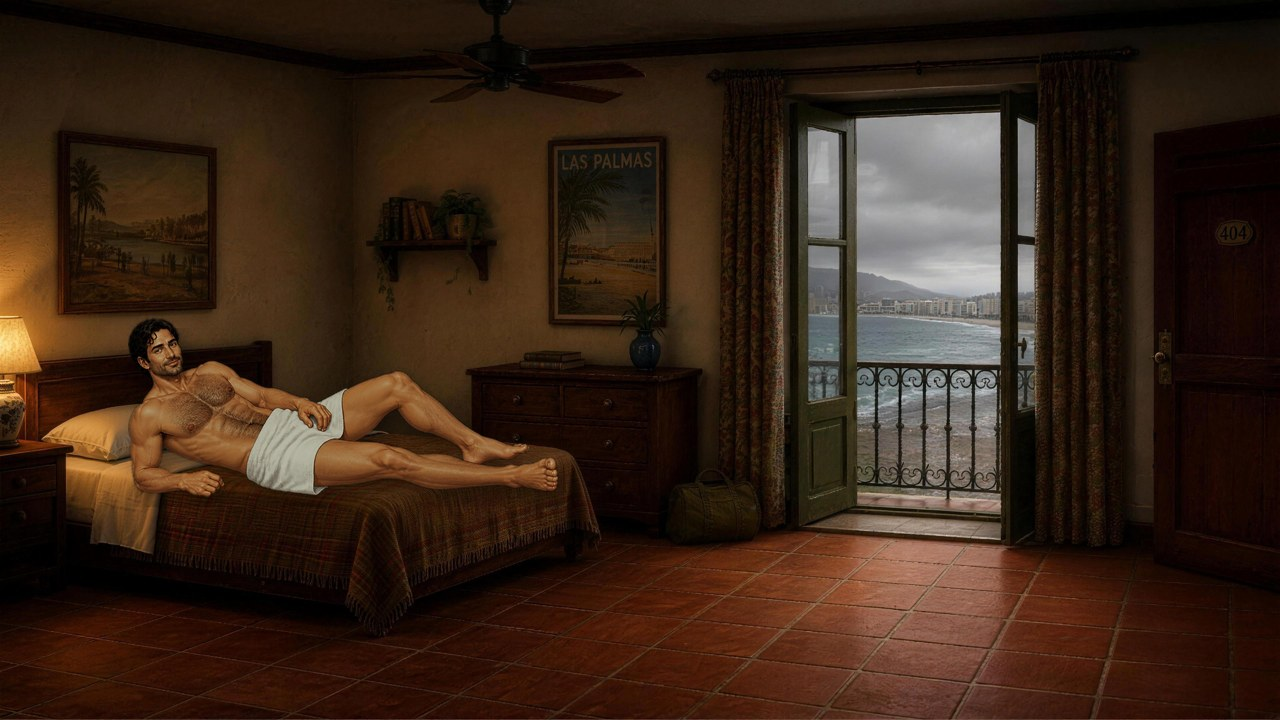
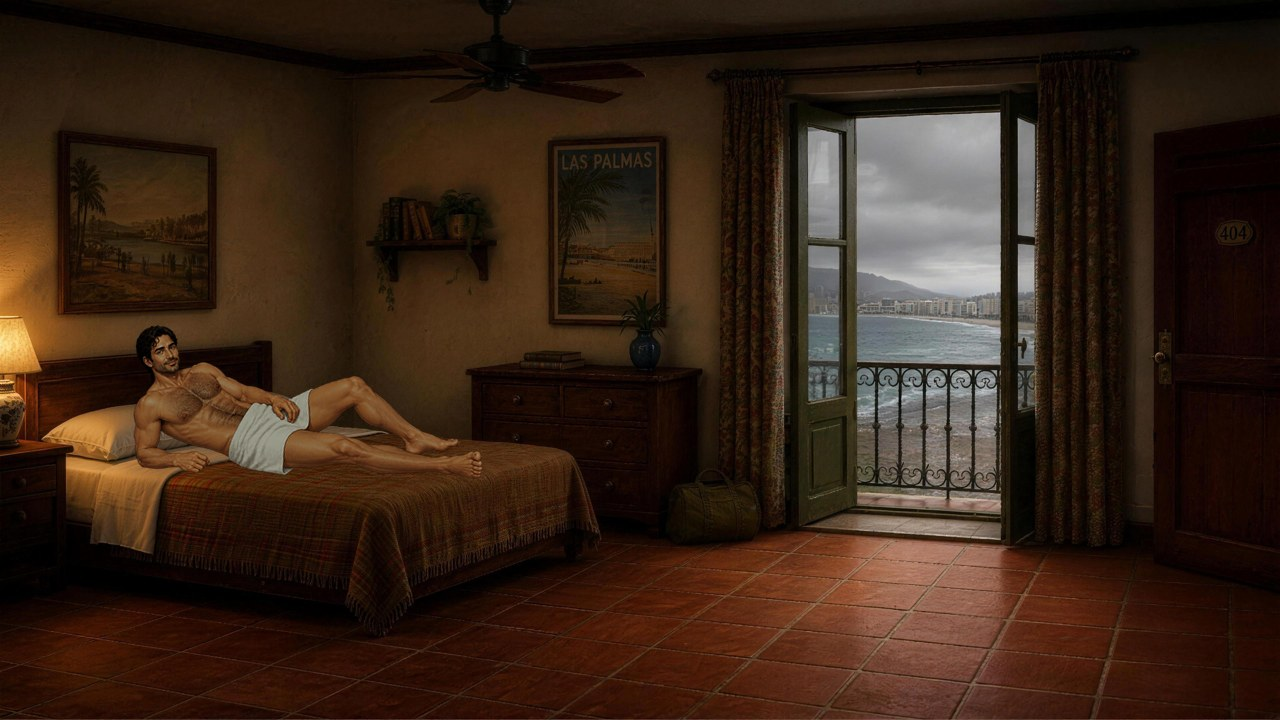
Vasco towel sprite baked at the user's placement
Claude-Session: https://claude.ai/code/session_016HTeTMdkPGeAf3vSMzZ5ZE

Changed region(s): [[0.0938, 0.4278, 0.4375, 0.7028]]

diff --git a/sequel/docs/HANDOFF.md b/sequel/docs/HANDOFF.md
@@ -1141,5 +1141,5 @@ the Sea, one glimpse only, no line gives it a voice; the Sea is never funny.
     Alan's portrait on the easel, one Elena and no discs in the chain, Alan's black tank top, shorts and white trainers,
     Alan in the Land Rover). The love scenes are to be shown another way (open). Vasco on the bed: Canva MAHZhGYusW8 from
     the in-game vascor (MAHZgxwIxeM) and the bed ref, more chest hair; exported via page 7 of DAHYZ-SDzRE, kept as
-    `art/designs/vasco_towel_bed.png`, keyed, rotated 11°, night-graded, placed at (128,318) on `hotel_room`
+    `art/designs/vasco_towel_bed.png`, keyed, rotated 11°, night-graded, placed by the user on a placement page (https://claude.ai/artifact/MF3B4betqnWGEtUw27peHw, db `placements/vasco_towel`: centre 300.3,404.2, width 340.9, -9°, brightness 0.86), baked at (116,278) on `hotel_room`
     (`art/review/bg_real/hotel_room_vasco_towel.png/.json`, preview `hotel_room_vasco_preview.jpg`). Awaiting approval.
